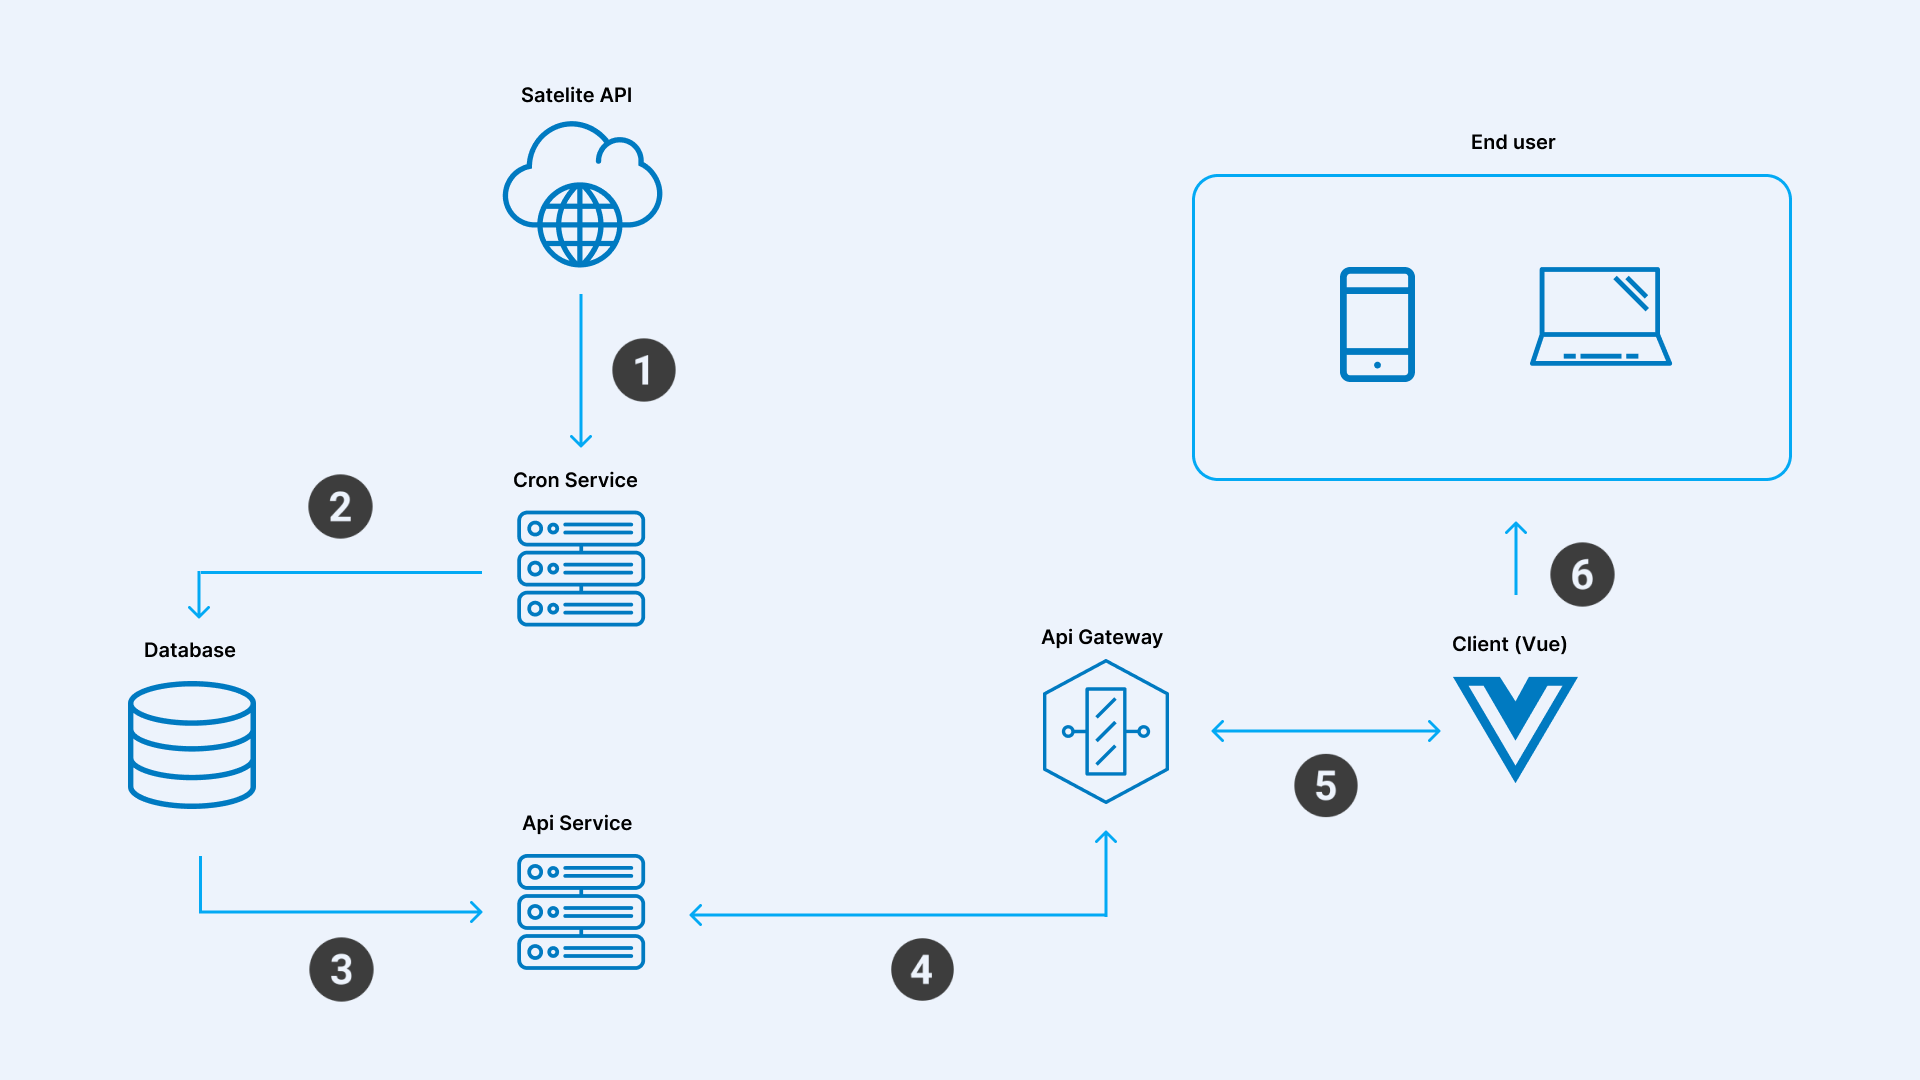
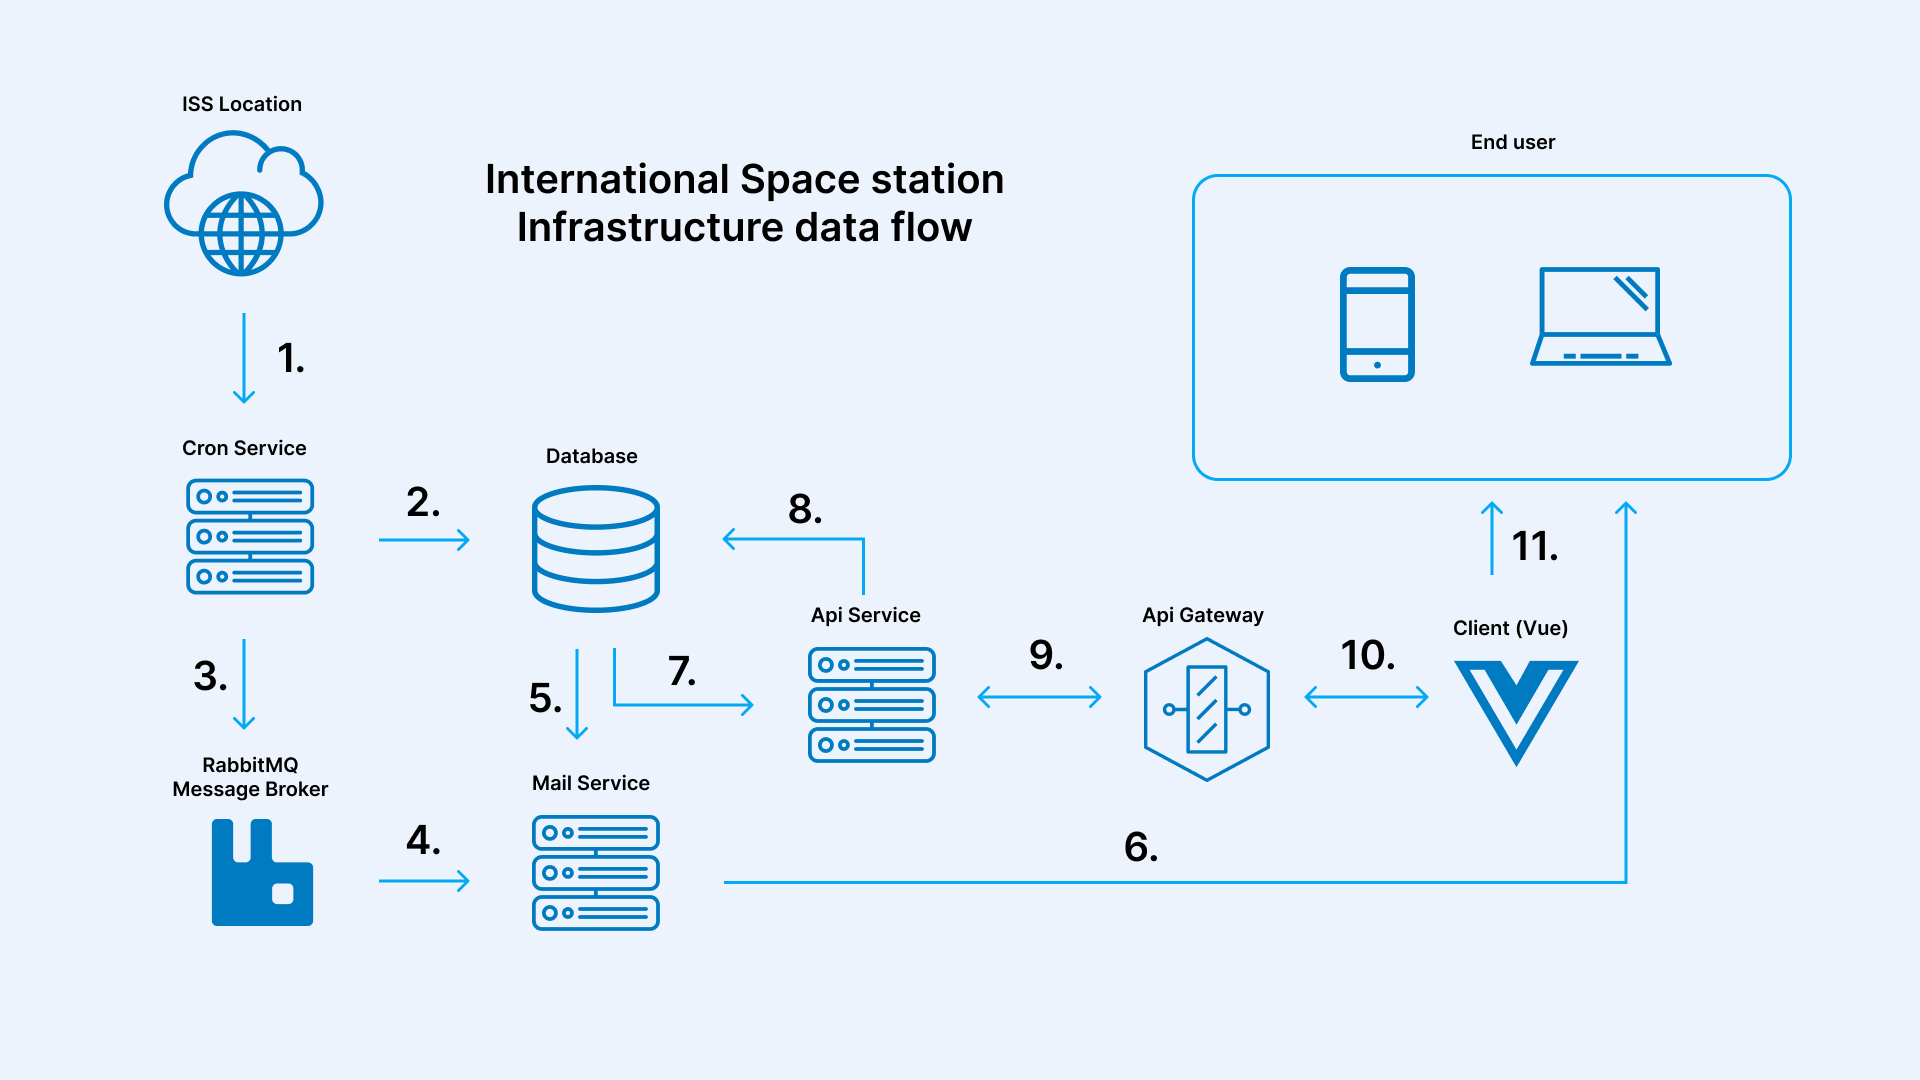
chore: update Readme

diff --git a/README.md b/README.md
@@ -22,10 +22,12 @@ The whole purpose is to store the current location, together with the timezone, 
 
 This application is structured by:
 
-- **Cron Service (Go)** _A service that which purpose is to run cronjobs_
+- **Cron Service (Go)** _A service which purpose is to run cronjobs_
 - **Api Service (Go)** _A web server to be consumed by client application_
+- **Mail Service (Go)** _A service that takes care of sending emails_
 - **Api Gateway (Go)** _An entry point to the services_
 - **Client (Vue)** _An application the end user can interact with_
+- **RabbitMQ** _Message broker_
 - **PostgreSQL Database** _Database to store ISS location_
 
 For local development all the applications run in docker containers and it is orchestrated via docker-compose
@@ -38,16 +40,29 @@ For local development all the applications run in docker containers and it is or
   />
 </p>
 
-1. Data gets pulled every minute from the iss api and it is converted to a schema needed for our research.
-2. Once the data is converted, it gets store into the database, this proccess only goes one way and cron service is only responsible to writing data to the DB.
-3. The data is pulled by the api service when a GET request is issued, this proccess only goes one way and api service is only responsible for reading the data.
-4. The api gateway is accessed via an api gateway that acts as a centralized entry point to other services.
-5. The client application communicates with the api via the gateway, and retrieves the needed data to be able to display it to the end user.
-6. The end user is able to access the client application via the browser.
+1. The Cron Service pulls the ISS's location every minute from the iss api and it is converted to a schema needed for our research.
+2. Once the data is converted, the Cron Service stores the data into the database, this proccess only goes one way and cron service is only responsible for writing data to the DB.
+3. After the data is saved, the Cron Service queues the timezone into a rabbitMQ queue.
+4. The Mail Service consumes the Notification Queue and on a receive event, it triggers the notification functionality.
+5. The Mail Service queries the database to find subscribed users based on the timezone recieved.
+6. After the users are found, it sends a notification to all of them.
+7. The Api Service can get and query the ISS location data.
+8. The Api Serice can also write subscribed users to the database.
+9. The Api Service recieves all the calls via the api gateway.
+10. The Client Vue application is responsible for displaying datatables with the data and create subscribers.
+11. The end user is capable to get satelite data and post it's email to our database.
 
 ### Running app locally
 
 > To be able to run the application you need docker and docker-compose installed. Please refer to the [docs](https://docs.docker.com/compose/install/) to install them before taking any further steps
+
+For the Mail service to work add your email credentials to `.env.docker`, the emails will be sent from the specified account.
+
+```
+MAIL_HOST="smtp.gmail.com"
+MAIL_DOMAIN_ADDRESS=example@mail.com
+MAIL_PASSWORD=mypassword
+```
 
 Clone this repository
 
@@ -153,10 +168,16 @@ cd client && npm run dev-mock
 
 The client application consists on:
 
+- Email subscription
 - Autofetch button.
 - Aggregated Datatable
 - Sample Datatable
 - Informational tree
+
+**Email subscription**
+
+By subscribing to the email service, you save the email and timezone in the database.
+Everytime a new ISS location is added to the database, the message broker will queue the timezone for the mail service to recieve. If the ISS is on you timezone it will send you an email to notify you.
 
 **Autofetch button**
 
